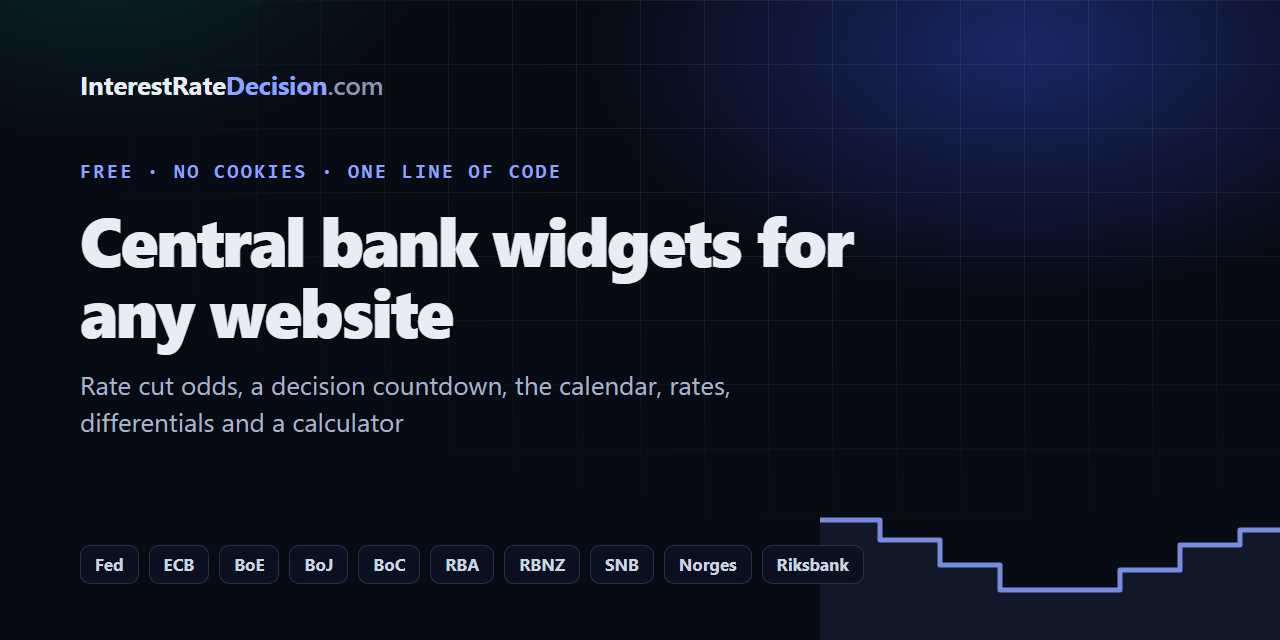
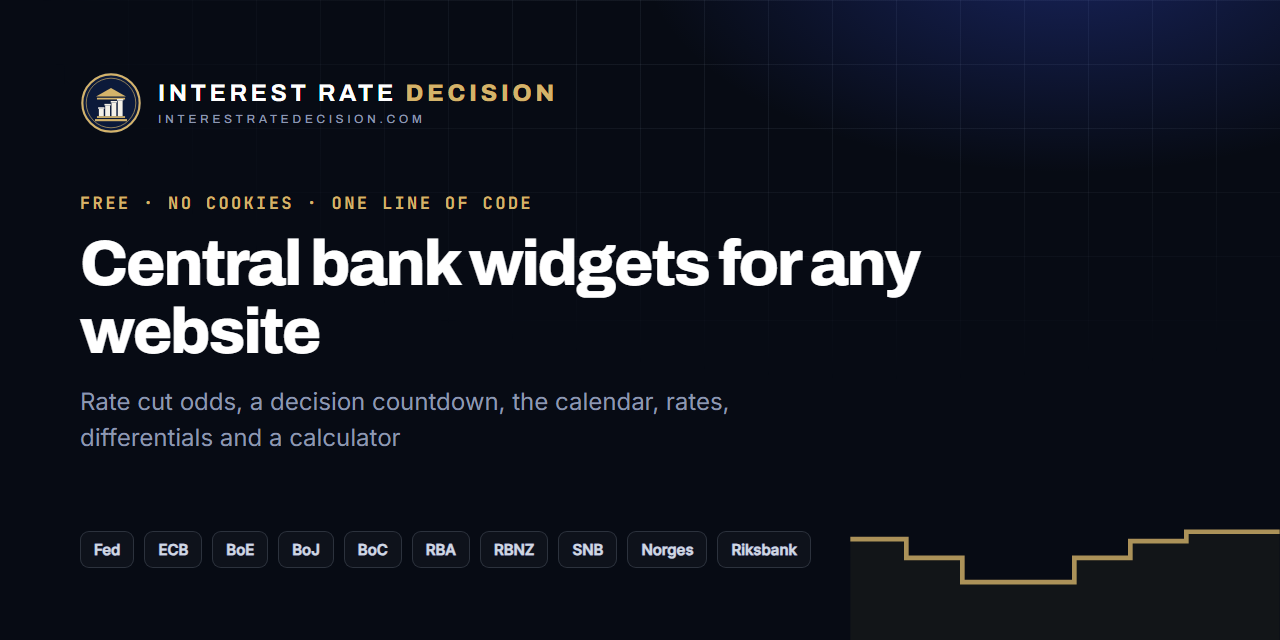
The new mark: the seal

diff --git a/index.html b/index.html
@@ -5,6 +5,8 @@
 <meta name="viewport" content="width=device-width, initial-scale=1">
 <title>Central Bank Widgets: Free Economic Calendar, Rate Odds and Countdown</title>
 <meta name="description" content="Free live widgets for any website: the central bank calendar, a countdown to the next Fed, ECB or BoE decision, rate cut odds, every bank's rate, rate differentials and a rate cut calculator.">
+<link rel="icon" href="https://interestratedecision.com/favicon.svg" type="image/svg+xml">
+<link rel="apple-touch-icon" href="https://interestratedecision.com/apple-touch-icon.png">
 <link rel="canonical" href="https://interest-rate-decision.github.io/widgets/">
 <meta property="og:type" content="website">
 <meta property="og:title" content="Central bank widgets for any website">
@@ -22,8 +24,12 @@
   a { color: var(--accent); }
   header { background: var(--ink); color: #e8ecf4; padding: 56px 24px 64px; background-image: radial-gradient(50% 80% at 80% 0%, rgba(61,90,254,.35), transparent 70%); }
   .wrap { max-width: 1180px; margin: 0 auto; }
-  .brand { font-weight: 800; font-size: 18px; color: #e8ecf4; text-decoration: none; }
-  .brand b { color: #8ea2ff; }
+  .brand { display: inline-flex; align-items: center; gap: 12px; color: #fff; text-decoration: none; }
+  .brand svg { width: 42px; height: 42px; flex: none; }
+  .brand span { display: flex; flex-direction: column; line-height: 1; }
+  .brand em { font: 700 15px/1 system-ui, -apple-system, 'Segoe UI', sans-serif; font-style: normal; letter-spacing: .15em; text-transform: uppercase; }
+  .brand b { color: #d4b36a; }
+  .brand small { font: 500 9px/1 system-ui, sans-serif; letter-spacing: .3em; text-transform: uppercase; color: #8d98b0; margin-top: 6px; }
   h1 { font-size: clamp(32px, 5vw, 54px); line-height: 1.05; letter-spacing: -.03em; margin: 28px 0 14px; max-width: 900px; }
   .lead { font-size: 19px; color: #aab4c8; max-width: 760px; margin: 0; }
   .cta { display: flex; gap: 12px; flex-wrap: wrap; margin-top: 26px; }
@@ -43,7 +49,7 @@
 <body>
 <header>
   <div class="wrap">
-    <a class="brand" href="https://interestratedecision.com/">InterestRate<b>Decision</b>.com</a>
+    <a class="brand" href="https://interestratedecision.com/" aria-label="InterestRateDecision.com"><svg aria-hidden="true" xmlns="http://www.w3.org/2000/svg" viewBox="0 0 64 64"><circle cx="32" cy="32" r="31" fill="#0c1a3a"/><g fill="none" stroke="#d4b36a"><circle cx="32" cy="32" r="29.6" stroke-width="2.2"/><circle cx="32" cy="32" r="25.6" stroke-width=".9" stroke-opacity=".75"/></g><g fill="#d4b36a"><path d="M16.5 25.2 32 16.4 47.5 25.2Z"/><rect x="17.5" y="26.6" width="29" height="1.8"/><rect x="17.5" y="45.6" width="29" height="1.8"/><rect x="15.5" y="48.6" width="33" height="2.2"/></g><g fill="#f4f1e8"><rect x="18.7" y="36.4" width="6.6" height="1.6"/><rect x="19.5" y="38" width="5" height="7.6"/><rect x="25.2" y="32.9" width="6.6" height="1.6"/><rect x="26" y="34.5" width="5" height="11.1"/><rect x="31.7" y="29.9" width="6.6" height="1.6"/><rect x="32.5" y="31.5" width="5" height="14.1"/><rect x="38.2" y="27.9" width="6.6" height="1.6"/><rect x="39" y="29.5" width="5" height="16.1"/></g></svg><span><em>Interest Rate <b>Decision</b></em><small>interestratedecision.com</small></span></a>
     <h1>Free central bank widgets for your website</h1>
     <p class="lead">A live economic calendar of interest rate decisions, a countdown to the next Fed, ECB or Bank of England decision, rate cut odds, every central bank's rate, rate differentials and a rate cut calculator. One line of code, no sign-up, no cookies.</p>
     <div class="cta">
